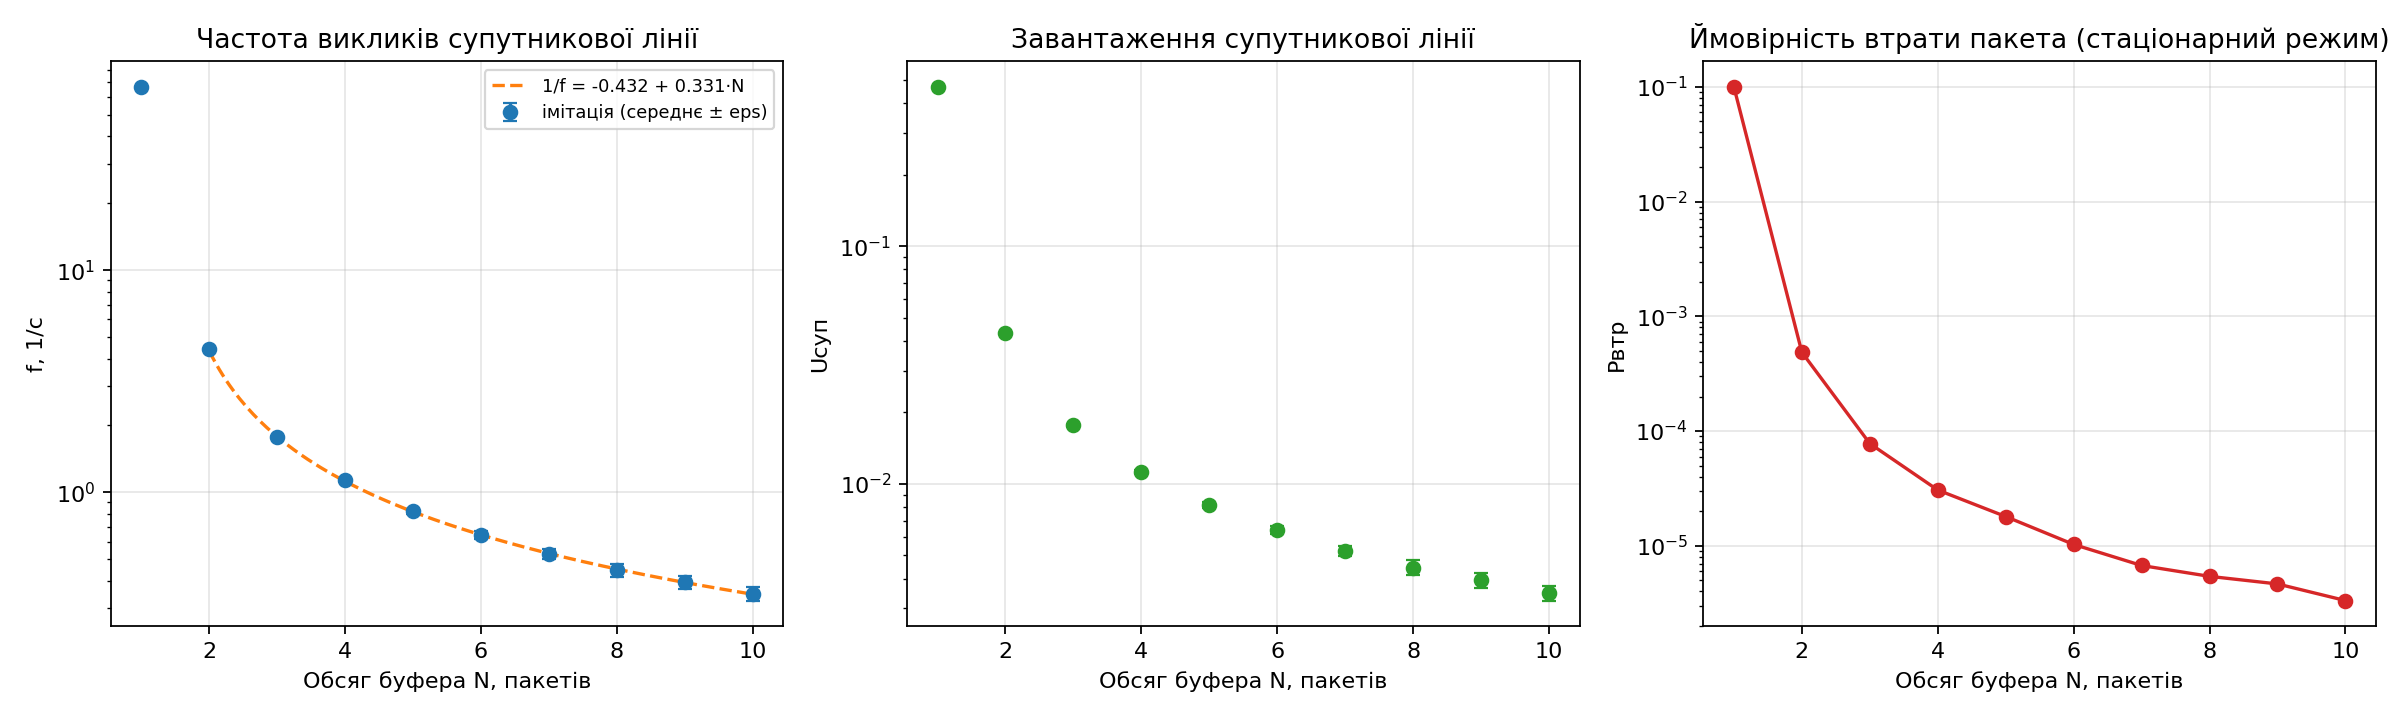
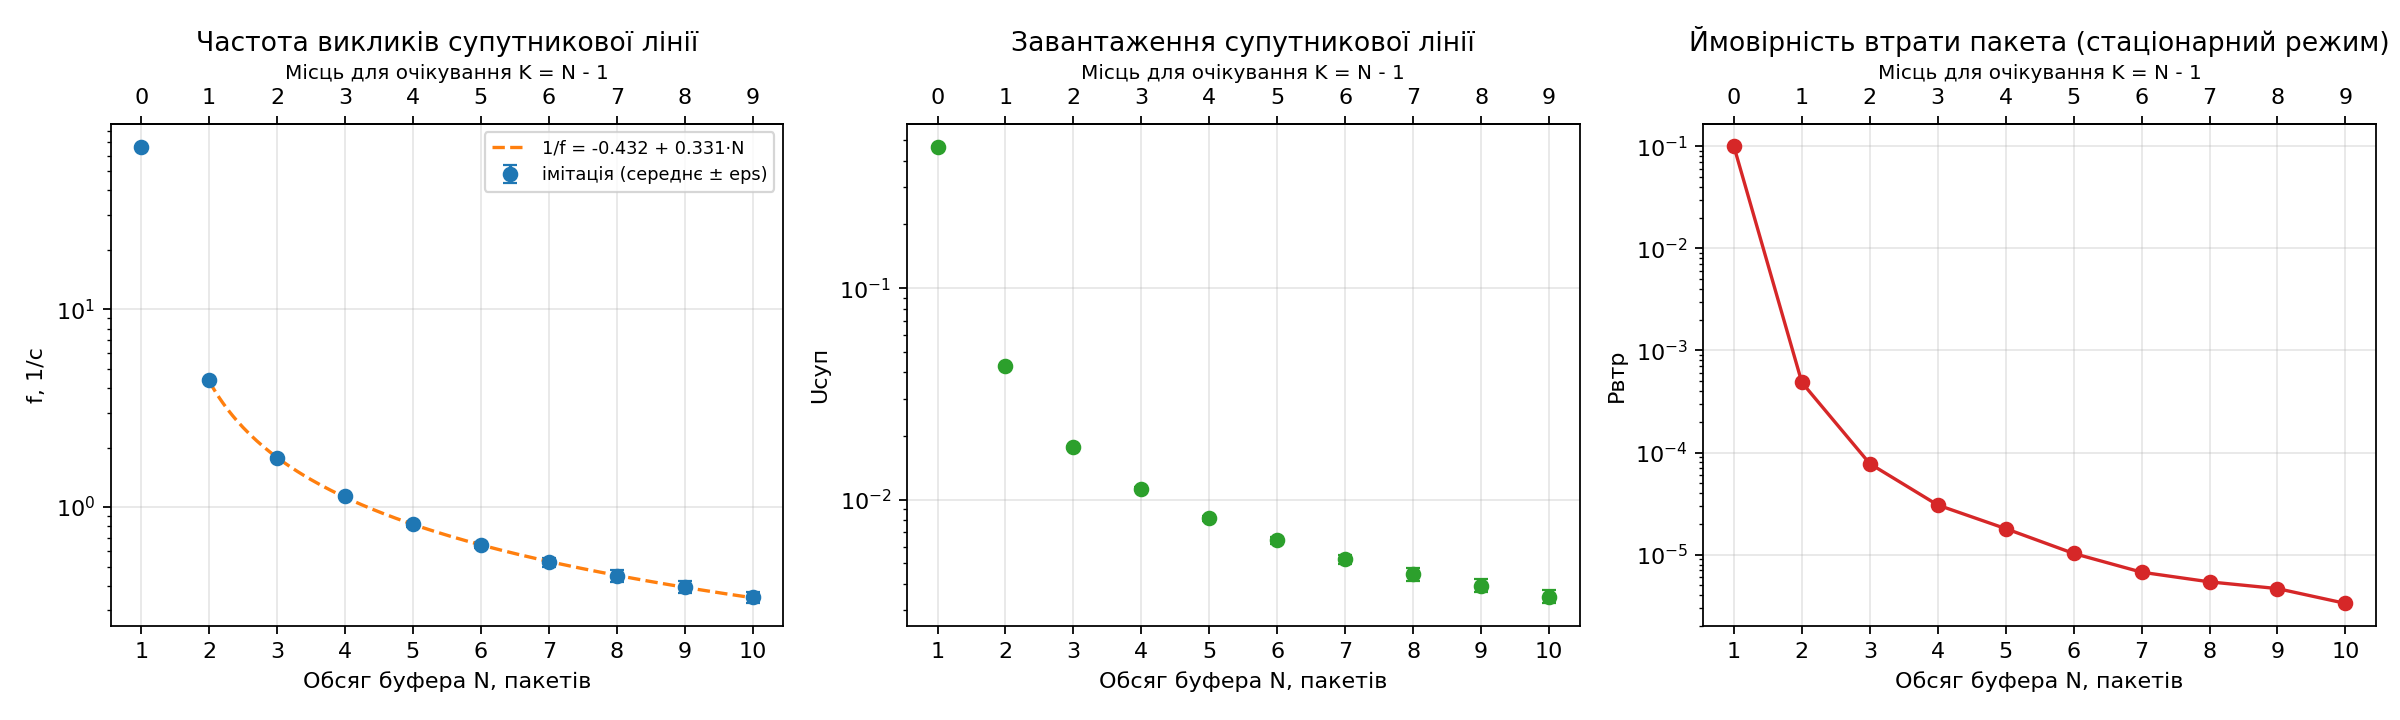
Логнормальний закон для інтервалів між викликами, шкала місць очікування K на графіку буфера, оновлений допис на схемі мережі Петрі

diff --git a/d3-model/src/main/java/ua/kpi/d3/experiment/Experiments.java b/d3-model/src/main/java/ua/kpi/d3/experiment/Experiments.java
@@ -532,17 +532,34 @@ public final class Experiments {
         java.util.function.DoubleUnaryOperator gammaCdf = x -> Stats.regularizedGammaP(shape, x / scale);
         double chiGamma = chiSquareEquiprobable(d, gammaCdf, k);
         double crGamma = Stats.chiSquareQuantile(0.95, k - 1 - 2);
+
+        double[] logs = java.util.Arrays.stream(d).map(Math::log).toArray();
+        double muLn = Stats.mean(logs);
+        double sigmaLn = Stats.std(logs);
+        java.util.function.DoubleUnaryOperator lnCdf = x -> x <= 0 ? 0 : Stats.normalCdf((Math.log(x) - muLn) / sigmaLn);
+        double chiLn = chiSquareEquiprobable(d, lnCdf, k);
+        double crLn = Stats.chiSquareQuantile(0.95, k - 1 - 2);
         out.printf("Хі-квадрат, %d інтервалів, alpha = 0.05:%n", k);
         out.printf("%-38s %10s %10s %10s%n", "закон", "хі2", "хі2кр", "приймається");
         out.printf("%-38s %10.1f %10.1f %10s%n", String.format(java.util.Locale.US, "експоненціальний (%.1f мс)", mean),
                 chiExp, crExp, chiExp < crExp ? "так" : "ні");
         out.printf("%-38s %10.1f %10.1f %10s%n", String.format(java.util.Locale.US, "гамма (a = %.3f, b = %.1f мс)", shape, scale),
                 chiGamma, crGamma, chiGamma < crGamma ? "так" : "ні");
-        String closer = chiGamma < chiExp ? "гамма" : "експоненціальний";
-        if (chiExp < crExp || chiGamma < crGamma) {
-            out.conclusion("закон розподілу приймається: " + (chiGamma < crGamma ? "гамма" : "експоненціальний") + ".");
+        out.printf("%-38s %10.1f %10.1f %10s%n", String.format(java.util.Locale.US, "логнормальний (mu = %.3f, s = %.3f)", muLn, sigmaLn),
+                chiLn, crLn, chiLn < crLn ? "так" : "ні");
+        String[] laws = {"експоненціальний", "гамма", "логнормальний"};
+        double[] chi = {chiExp, chiGamma, chiLn};
+        double[] cr = {crExp, crGamma, crLn};
+        int best = 0;
+        for (int i = 1; i < chi.length; i++) {
+            if (chi[i] < chi[best]) {
+                best = i;
+            }
+        }
+        if (chi[best] < cr[best]) {
+            out.conclusion("закон розподілу приймається: " + laws[best] + ".");
         } else {
-            out.conclusion("жоден закон не приймається, ближчий - " + closer + ".");
+            out.conclusion("жоден закон не приймається, ближчий - " + laws[best] + ".");
         }
 
         double w = 25;
@@ -554,12 +571,14 @@ public final class Experiments {
             long obs = java.util.Arrays.stream(d).filter(v -> v >= lo && v < hi).count();
             double eExp = d.length * (expCdf.applyAsDouble(hi) - expCdf.applyAsDouble(lo));
             double eGam = d.length * (gammaCdf.applyAsDouble(hi) - gammaCdf.applyAsDouble(lo));
-            rows.add(Output.row(lo, hi, obs, eExp, eGam));
+            double eLn = d.length * (lnCdf.applyAsDouble(hi) - lnCdf.applyAsDouble(lo));
+            rows.add(Output.row(lo, hi, obs, eExp, eGam, eLn));
         }
-        out.csv("call_intervals_hist.csv", "BinLeft_ms;BinRight_ms;Observed;ExpectedExponential;ExpectedGamma", rows);
+        out.csv("call_intervals_hist.csv", "BinLeft_ms;BinRight_ms;Observed;ExpectedExponential;ExpectedGamma;ExpectedLognormal",
+                rows);
         out.csv("call_intervals_summary.csv", "n;Mean_ms;Std_ms;CV;Min_ms;Max_ms;ChiExp;ChiExpCrit;GammaShape;GammaScale_ms;"
-                + "ChiGamma;ChiGammaCrit", List.of(Output.row(d.length, mean, sd, cv, Stats.min(d), Stats.max(d), chiExp,
-                crExp, shape, scale, chiGamma, crGamma)));
+                + "ChiGamma;ChiGammaCrit;LnMu;LnSigma;ChiLn;ChiLnCrit", List.of(Output.row(d.length, mean, sd, cv,
+                Stats.min(d), Stats.max(d), chiExp, crExp, shape, scale, chiGamma, crGamma, muLn, sigmaLn, chiLn, crLn)));
     }
 
     private static double chiSquareEquiprobable(double[] d, java.util.function.DoubleUnaryOperator cdf, int k) {

diff --git a/scripts/plots.py b/scripts/plots.py
@@ -112,6 +112,12 @@ def plot_steady():
     axes[2].set_xlabel("Обсяг буфера N, пакетів")
     axes[2].set_ylabel("Pвтр")
     axes[2].set_title("Ймовірність втрати пакета (стаціонарний режим)")
+    for ax in axes:
+        top = ax.secondary_xaxis("top", functions=(lambda x: x - 1, lambda x: x + 1))
+        top.set_xticks([int(x) - 1 for x in n])
+        top.set_xlabel("Місць для очікування K = N - 1", fontsize=9)
+        ax.set_xticks([int(x) for x in n])
+        ax.title.set_y(1.2)
     save(fig, "buffer_steady.png")
 
 
@@ -296,6 +302,8 @@ def plot_call_intervals():
     mid = [(l + h) / 2 for l, h in zip(lo, hi)]
     ax.plot(mid, num(d["ExpectedExponential"]), "o-", color="tab:red", ms=3, label="експоненціальний закон")
     ax.plot(mid, num(d["ExpectedGamma"]), "s-", color="tab:green", ms=3, label="гамма-закон (метод моментів)")
+    if "ExpectedLognormal" in d:
+        ax.plot(mid, num(d["ExpectedLognormal"]), "^-", color="tab:purple", ms=3, label="логнормальний закон")
     ax.set_xlabel("Інтервал між викликами супутникової лінії, мс")
     ax.set_ylabel("Кількість інтервалів")
     ax.set_title("Розподіл інтервалу між викликами супутникової лінії (N = 2, 1 год)")
@@ -358,9 +366,9 @@ def draw_uml():
     # рядок 2: модель
     ax.text(0.2, 11.75, "Модель та імітація", fontsize=11, fontweight="bold")
     cls("ModelParams", col[0], 11.4, ["+arrivalMean, arrivalDev", "+channelTime, bufferSize", "+satMean, satDev",
-                                      "+base() / with...()"])
+                                      "+duplexSatellite", "+base() / with...()"])
     cls("D3NetFactory", col[1], 11.4, ["+LOCK: Object", "+create(p): D3Net", "-buildPoint(...)"])
-    cls("D3Net", col[2], 11.4, ["+net: PetriNet", "+a, b: Point", "+satFree, satLine", "+satTransmit"])
+    cls("D3Net", col[2], 11.4, ["+net: PetriNet", "+params: ModelParams", "+a, b: Point", "+satellites: Satellite[]"])
     cls("ObservedPetriSim", col[3], 11.4, ["-observers: List", "+doT()  (перевизначено)", "~finish(T)"])
     cls("D3Simulation", col[4], 11.4, ["-net, sim, model", "+addObserver(o)", "+run(T, warmup)"], w=3.3)
     cls("Runner", 19.75, 11.4, ["-pool: Executor", "+replicate(...)"], w=2.2)
